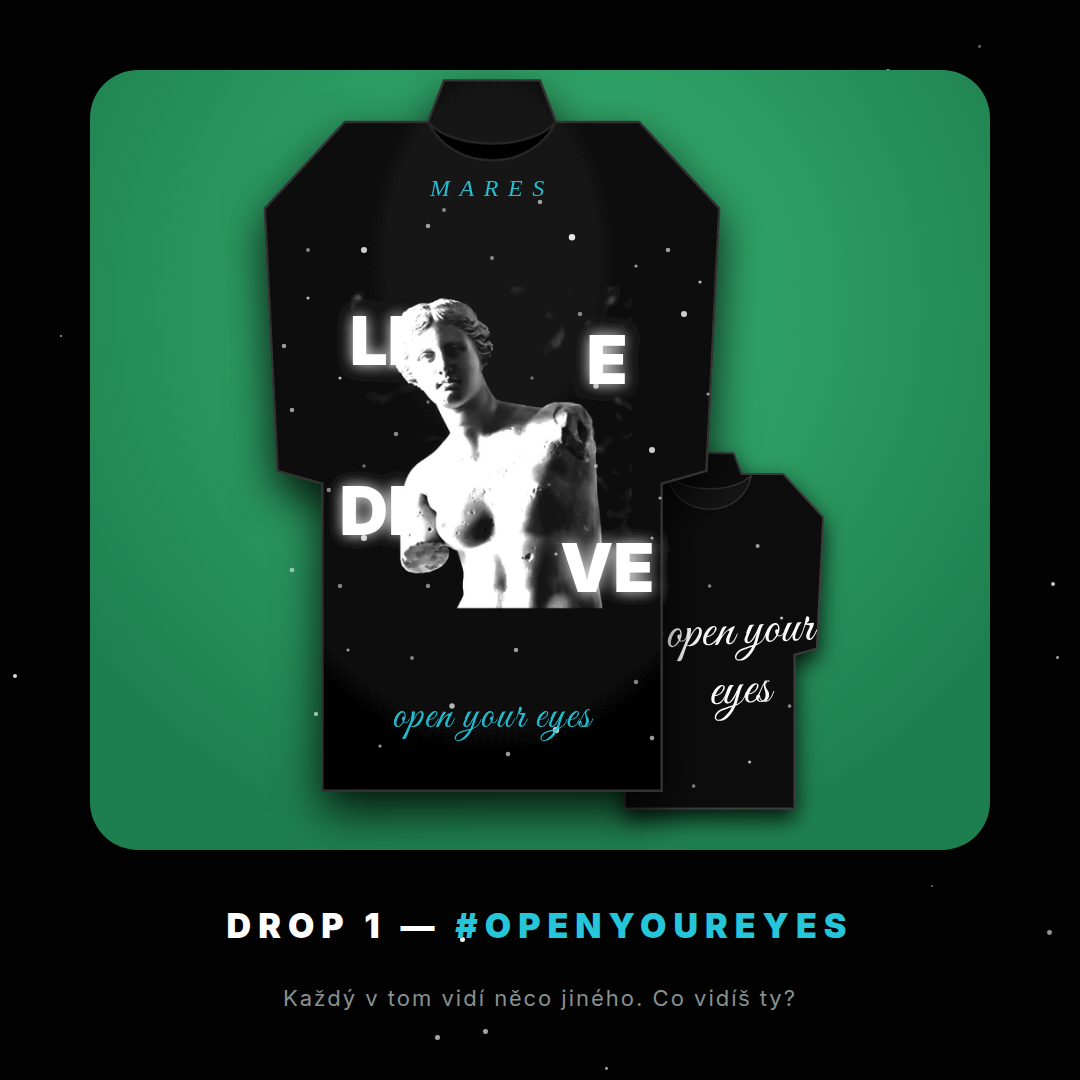
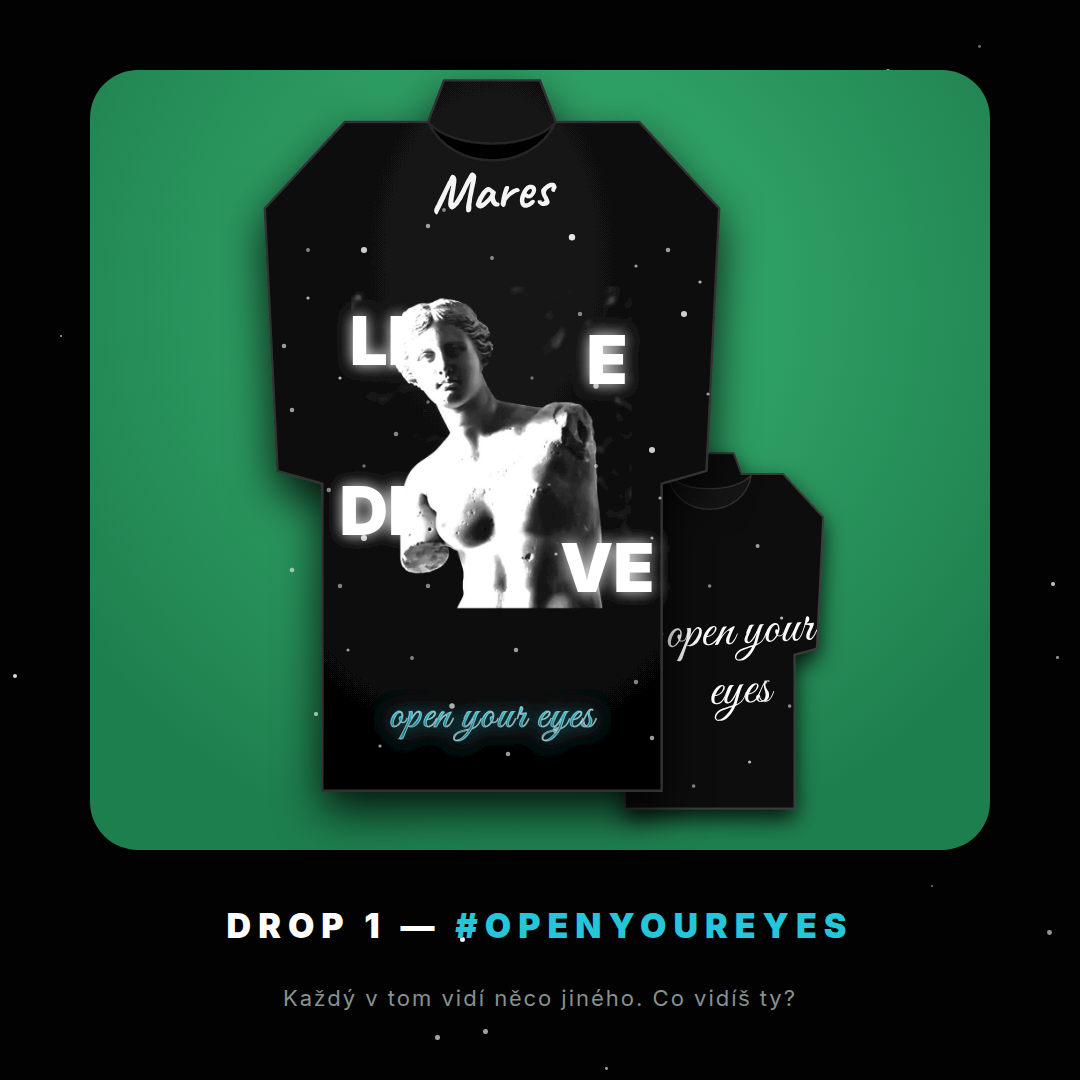
Refresh social visuals with current hoodie design; add IG/FB account + first-post setup guide
Claude-Session: https://claude.ai/code/session_01CMmd7hHney9Uuvu8uMddpz

Changed region(s): [[0.3667, 0.6417, 0.55, 0.7028], [0.3972, 0.1528, 0.5194, 0.2139]]

diff --git a/social/INSTAGRAM_FACEBOOK_START.md b/social/INSTAGRAM_FACEBOOK_START.md
@@ -1,0 +1,110 @@
+# MARES — Instagram & Facebook: založení účtu + první příspěvek
+
+> **Důležité:** Samotný účet si musíš založit ty osobně (vyžaduje tvůj e‑mail /
+> telefon a odsouhlasení podmínek sítě). Níže máš přesný postup a **hotový obsah**,
+> takže to zvládneš za pár minut — jen zkopíruješ texty a nahraješ obrázky z této složky.
+
+---
+
+## 1) INSTAGRAM
+
+### Založení účtu (mobil, appka Instagram)
+1. Instagram → **Vytvořit nový účet** → registrace přes e‑mail (klidně firemní).
+2. **Uživatelské jméno (handle):** `mares.wear` nebo `wearmares` / `mares.official`
+   *(vyber to, co je volné — drž ho stejné i na Facebooku).*
+3. Nastavení → Účet → **Přepnout na profesionální účet** → kategorie **Oblečení (značka)**.
+   Získáš statistiky, tlačítka a možnost propojit s Facebookem.
+4. **Profilová fotka:** `social-profile.png`
+5. **Jméno profilu:** `MARES` &nbsp;|&nbsp; podnadpis: `Sustainable streetwear`
+
+### BIO (zkopíruj)
+```
+MARES 👁 OPEN YOUR EYES
+Udržitelný streetwear, který nutí přemýšlet.
+🌍 5 % z každého nákupu jde planetě
+♻ Zero waste · tisk jen na objednávku
+Season 1 — už brzy. Otevři oči. 👇
+```
+Do pole **Web** dej odkaz na e‑shop (nebo Linktree, než web poběží).
+
+### PRVNÍ PŘÍSPĚVEK
+- **Obrázek:** `social-post1.png` (teaser oko) — nebo `social-post2.png` (mikina Venuše).
+- **Popisek (zkopíruj):**
+```
+Něco se chystá. 👁
+
+Až otevřeš oči, už je nezavřeš.
+MARES · Season 1 — coming soon.
+
+#openyoureyes #MARES #ComingSoon #Streetwear #UdrzitelnaModa #SustainableFashion #CzechBrand
+```
+- **Tip:** hned po zveřejnění dej do Stories `social-story.png` + sticker **Odpočet**
+  s datem dropu a **🔔 „zapni si upozornění“**.
+
+---
+
+## 2) FACEBOOK
+
+### Založení stránky (ne osobní profil — **Stránka**)
+1. Facebook → **Stránky** → **Vytvořit novou stránku**.
+2. **Název stránky:** `MARES`
+3. **Kategorie:** `Značka oblečení` (Clothing brand)
+4. **Profilová fotka:** `social-profile.png`
+5. **Úvodní (cover) fotka:** `social-banner.png` *(je v poměru na šířku, sedne přesně)*
+6. V nastavení propoj s Instagramem (Meta Business Suite) — budeš postovat na obě sítě naráz.
+
+### O nás / Bio (zkopíruj)
+```
+MARES je český streetwear brand s jednoduchou myšlenkou: to, co nosíme,
+vyjadřuje nejen kdo jsme, ale i jak se chováme k naší planetě.
+
+M — Materials: recyklované a organické materiály
+A — Adaptability: nadčasový design
+R — Recycling: bazar pro nošené kusy
+E — Environment: 5 % z každého nákupu jde planetě
+S — Sustainability: zero waste, tiskneme jen na objednávku
+
+Season 1 „#openyoureyes" už brzy. Otevři oči.
+```
+
+### PRVNÍ PŘÍSPĚVEK
+- **Obrázek:** `social-fbpost1.png` (na šířku 1200×630 — ideální pro FB).
+- **Popisek (zkopíruj):**
+```
+Něco se chystá. 👁
+
+MARES — udržitelný streetwear, který nutí přemýšlet.
+5 % z každého nákupu jde planetě. Zero waste. Tisk jen na objednávku.
+
+Season 1 „#openyoureyes" startuje už brzy.
+Sledujte nás, ať vám drop neuteče. 🔔
+```
+
+---
+
+## 3) CO NAHRÁT ODKUD (soubory v této složce)
+| Soubor | Kam |
+|---|---|
+| `social-profile.png` | profilovka IG + FB |
+| `social-banner.png` | cover fotka FB stránky |
+| `social-post1.png` | 1. IG příspěvek (teaser oko) |
+| `social-post2.png` | IG/FB příspěvek s mikinou Venuše |
+| `social-post3.png` | příspěvek „co znamená MARES" |
+| `social-post4.png` | příspěvek planeta / mise |
+| `social-fbpost1.png` | 1. FB příspěvek (na šířku) |
+| `social-story.png` | IG/FB Story |
+
+Kompletní plán publikování na celý teaser týden, další popisky a hashtagy
+najdeš v `MARES_social_pack.md`.
+
+---
+
+## 4) AŽ POBĚŽÍ WEB
+V souboru `mares-shop.html` je dole konstanta `SOCIAL` — doplň do ní odkazy na
+svůj IG a FB profil a tlačítka „Follow on Instagram / Facebook" budou fungovat:
+```js
+const SOCIAL = {
+    instagram: 'https://www.instagram.com/mares.wear/',
+    facebook:  'https://www.facebook.com/mares'
+};
+```
